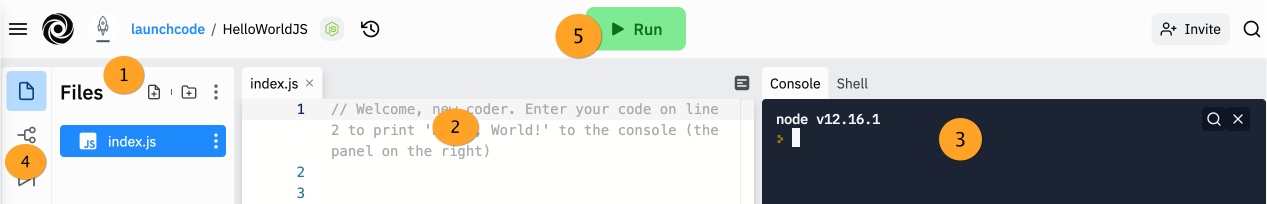
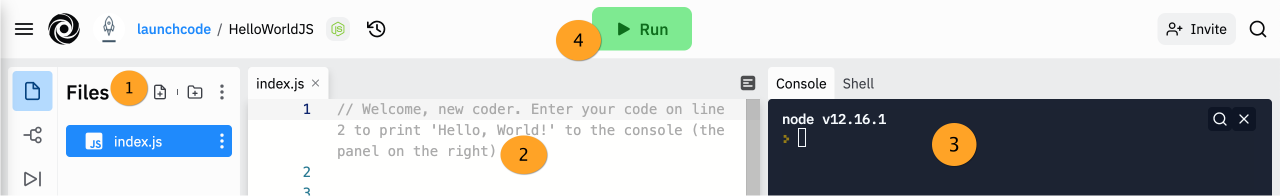
updated repl intro

diff --git a/src/chapters/how-programs-work/hello-world.rst b/src/chapters/how-programs-work/hello-world.rst
@@ -67,7 +67,7 @@ Before you dive into your ``Hello, World!`` program, let's take a look at how
 to use Replit. The workspace consists of three main panels and several menu
 functions.
 
-.. figure:: figures/repl-workspace.png
+.. figure:: figures/workspace-repl.png
    :alt: Replit code editor layout
 
 Features to note:
@@ -83,12 +83,12 @@ Features to note:
    panel. The console also displays error messages, test results, and other
    information.
 
-#. **Fork button**: If you are viewing someone else's project, you can *fork*
-   the content (4) and store a copy of that project to your own account. This
-   allows you to edit the files without changing the originals, and it lets
-   you use other programmers' work (with permission) to enhance your own.
-
 #. **Run button**: Executes any code written in the ``index`` file.
+
+.. admonition:: Note
+
+   The workspace shown above uses the "light" theme (dark text on a light background). 
+   If you prefer the reverse (light text on a dark background), click the gear icon and select the "dark" theme.
 
 
 
@@ -156,8 +156,7 @@ code. Make a change, click "Run", and see what happens. Try to:
 
 Spend a few minutes trying these changes. Do not worry if you miss some of the
 targets. Learning comes through experience, and you WILL learn all the details
-behind ``console.log`` soon.
-
+behind ``console.log`` soon.  
 Once you finish practicing (and hopefully making some mistakes), you will have
 a pretty good idea of how the ``console.log`` function in JavaScript works.
 
